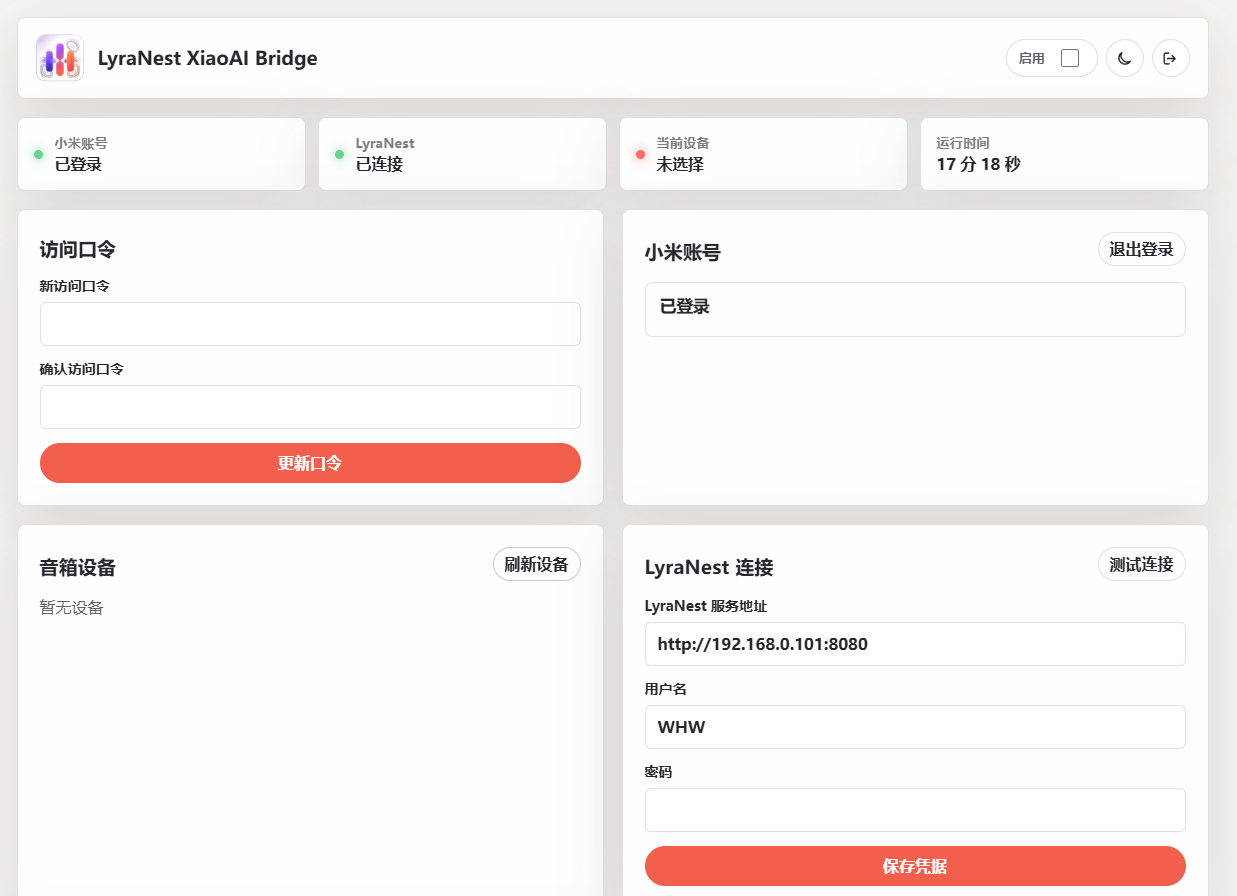
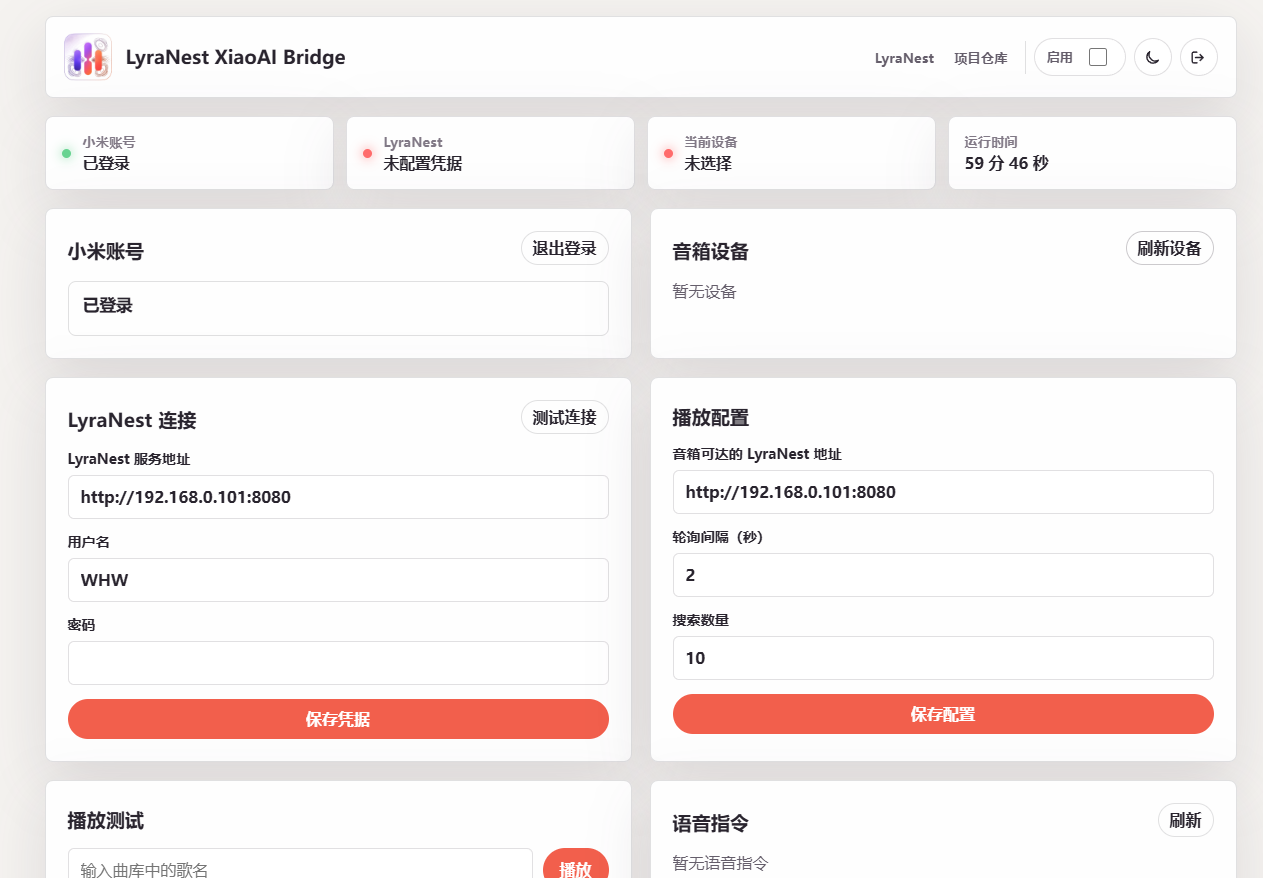
docs: improve release landing page

diff --git a/README.md b/README.md
@@ -1,41 +1,76 @@
 # LyraNest XiaoAI Bridge
 
-LyraNest XiaoAI Bridge 是 [LyraNest](https://lyranest.dpdns.org/) 的独立小爱音箱集成器。它部署在局域网中，将小米小爱音箱连接到 LyraNest 自托管音乐库，让音箱可以依据语音指令搜索并播放自己的曲库。
+<p align="center">
+  <strong>让小爱音箱播放你的 LyraNest 私人音乐库。</strong>
+</p>
 
-> 本仓库仅发布可安装制品、校验文件和使用说明，不包含 Bridge 或 LyraNest 的源代码。
+<p align="center">
+  <a href="https://github.com/WHWgogogo/LyraNest-Xiaomi-Bridge/releases/latest"><img src="https://img.shields.io/github/v/release/WHWgogogo/LyraNest-Xiaomi-Bridge?display_name=tag&label=Release" alt="Latest Release" /></a>
+  <a href="https://github.com/WHWgogogo/LyraNest-Xiaomi-Bridge/releases/latest"><img src="https://img.shields.io/badge/Platform-fnOS%20%7C%20Docker-4f46e5" alt="Platforms" /></a>
+  <a href="https://lyranest.dpdns.org/"><img src="https://img.shields.io/badge/Powered%20by-LyraNest-f95f4d" alt="Powered by LyraNest" /></a>
+</p>
 
-![LyraNest XiaoAI Bridge 管理页](assets/lyranest-xiaoai-bridge-console.png)
+<p align="center">
+  <a href="https://github.com/WHWgogogo/LyraNest-Xiaomi-Bridge/releases/latest">下载最新版</a> ·
+  <a href="https://lyranest.dpdns.org/">LyraNest 官网</a> ·
+  <a href="https://github.com/WHWgogogo/LyraNest">LyraNest 主项目</a> ·
+  <a href="#飞牛-fnos-安装">飞牛安装</a> ·
+  <a href="#docker-离线部署">Docker 部署</a>
+</p>
 
-## 项目与下载
+<p align="center">
+  <img src="assets/lyranest-xiaoai-bridge-console.png" alt="LyraNest XiaoAI Bridge 管理台" width="100%" />
+</p>
 
-| 入口 | 地址 |
-| --- | --- |
-| LyraNest 项目主页 | [lyranest.dpdns.org](https://lyranest.dpdns.org/) |
-| Bridge 发布仓库 | [WHWgogogo/LyraNest-Xiaomi-Bridge](https://github.com/WHWgogogo/LyraNest-Xiaomi-Bridge) |
-| 当前制品目录 | [releases/1.0.1](https://github.com/WHWgogogo/LyraNest-Xiaomi-Bridge/tree/main/releases/1.0.1) |
-| 校验文件 | [SHA256SUMS-1.0.1.txt](https://github.com/WHWgogogo/LyraNest-Xiaomi-Bridge/raw/refs/heads/main/releases/1.0.1/SHA256SUMS-1.0.1.txt) |
+LyraNest（律巢）是一套面向个人 NAS、家庭服务器与局域网音乐库的自托管音乐服务。LyraNest XiaoAI Bridge 是它的音箱扩展：将一台小爱音箱连接到你的 LyraNest 服务后，就可以用语音搜索并播放自己曲库中的音乐。
 
-LyraNest 主项目负责曲库、账号、音乐检索与流媒体服务；Bridge 只负责小米账号授权、音箱发现、语音指令处理和向音箱下发播放控制。音频由音箱直接访问 LyraNest，不经过 Bridge 中转。
+当前稳定版本：`1.0.1`
 
-## 版本 1.0.1
+## 下载最新版
 
-发布于 2026 年 9 月 1 日。
+请前往 [GitHub 最新发行版](https://github.com/WHWgogogo/LyraNest-Xiaomi-Bridge/releases/latest) 下载对应文件。以下链接始终指向当前稳定发行：
 
-| 制品 | 下载 | 用途 |
+| 文件 | 下载 | 适用场景 |
 | --- | --- | --- |
-| 飞牛 FPK | [LyraNest-XiaoAI-Bridge-1.0.1-fnos-native.fpk](https://github.com/WHWgogogo/LyraNest-Xiaomi-Bridge/raw/refs/heads/main/releases/1.0.1/LyraNest-XiaoAI-Bridge-1.0.1-fnos-native.fpk) | 飞牛应用中心原生安装包 |
-| Docker 镜像 | [LyraNest-XiaoAI-Bridge-1.0.1-docker-image-linux-amd64.tar](https://github.com/WHWgogogo/LyraNest-Xiaomi-Bridge/raw/refs/heads/main/releases/1.0.1/LyraNest-XiaoAI-Bridge-1.0.1-docker-image-linux-amd64.tar) | Linux amd64 离线 Docker 镜像 |
-| SHA-256 | [SHA256SUMS-1.0.1.txt](https://github.com/WHWgogogo/LyraNest-Xiaomi-Bridge/raw/refs/heads/main/releases/1.0.1/SHA256SUMS-1.0.1.txt) | FPK 与 Docker 镜像完整性校验 |
+| `LyraNest-XiaoAI-Bridge-1.0.1-fnos-native.fpk` | [下载 FPK](https://github.com/WHWgogogo/LyraNest-Xiaomi-Bridge/releases/latest/download/LyraNest-XiaoAI-Bridge-1.0.1-fnos-native.fpk) | 飞牛 fnOS 原生应用安装包 |
+| `LyraNest-XiaoAI-Bridge-1.0.1-docker-image-linux-amd64.tar` | [下载 Docker 镜像](https://github.com/WHWgogogo/LyraNest-Xiaomi-Bridge/releases/latest/download/LyraNest-XiaoAI-Bridge-1.0.1-docker-image-linux-amd64.tar) | Linux AMD64 / x86_64 离线 Docker 部署 |
+| `SHA256SUMS-1.0.1.txt` | [下载校验文件](https://github.com/WHWgogogo/LyraNest-Xiaomi-Bridge/releases/latest/download/SHA256SUMS-1.0.1.txt) | 校验下载完整性 |
 
-### Docker 离线部署
+## 它能做什么
 
-下载镜像后导入：
+- 登录小米账号并发现局域网中的小爱音箱。
+- 在管理台选择要控制的音箱，完成 LyraNest 服务连接。
+- 将“播放某首歌”“下一首”“暂停”“停止”等语音请求转成曲库操作。
+- 由音箱直接访问 LyraNest 的音乐流，Bridge 不转发音频数据。
+- 提供播放测试、连接状态和最近语音指令记录，方便日常排查。
+
+## 它和 LyraNest 的关系
+
+LyraNest 负责保存音乐、搜索曲库、管理账号并提供播放地址；XiaoAI Bridge 负责把这些能力带给小爱音箱。它是一个独立安装、独立更新的配套应用，不会替代 LyraNest 主服务。
+
+使用前，请先部署可正常访问的 [LyraNest](https://github.com/WHWgogogo/LyraNest)。小爱音箱也必须能通过局域网访问你在 Bridge 中填写的 LyraNest 地址。
+
+## 飞牛 fnOS 安装
+
+飞牛 NAS 用户推荐安装 FPK：
+
+1. 下载 [LyraNest XiaoAI Bridge 1.0.1 FPK](https://github.com/WHWgogogo/LyraNest-Xiaomi-Bridge/releases/latest/download/LyraNest-XiaoAI-Bridge-1.0.1-fnos-native.fpk)。
+2. 在飞牛应用中心选择手动安装，上传 FPK 并完成安装。
+3. 在应用设置中选择未被占用的访问端口，默认是 `18090`。
+4. 从飞牛桌面打开应用，首次进入创建 6 位数字访问口令。
+5. 登录小米账号，选择音箱，填写 LyraNest 服务地址后保存配置。
+
+飞牛桌面入口使用飞牛统一网关；你也可以通过 `http://<飞牛地址>:<端口>` 从局域网访问管理台。
+
+## Docker 离线部署
+
+Docker 镜像适用于 Linux AMD64 / x86_64 设备，与飞牛 FPK 是两种独立的安装方式。下载镜像并导入：
 
 ```bash
 docker load -i LyraNest-XiaoAI-Bridge-1.0.1-docker-image-linux-amd64.tar
 ```
 
-启动独立 Bridge 容器：
+启动 Bridge：
 
 ```bash
 docker run -d --name lyranest-xiaoai-bridge \
@@ -46,26 +81,26 @@ docker run -d --name lyranest-xiaoai-bridge \
   lyranest-xiaoai-bridge:1.0.1
 ```
 
-随后访问 `http://<NAS_IP>:18090`。首次进入创建 6 位数字访问口令，登录小米账号，选择音箱，填写 LyraNest 服务地址并保存即可。
+然后在浏览器打开 `http://<NAS_IP>:18090`，完成首次设置即可。Docker 方式不使用飞牛统一网关。
 
-### 飞牛 FPK 安装
+## 首次配置
 
-1. 在飞牛应用中心选择手动安装，上传 FPK。
-2. 在向导中设置未占用端口，默认是 `18090`。
-3. 从飞牛桌面打开 Bridge，或通过 `http://<NAS_IP>:<端口>` 访问。
-4. 在 Bridge 中完成小米登录、音箱选择和 LyraNest 连接。
+1. 创建管理台的 6 位数字访问口令。
+2. 输入小米账号和密码；小米要求时，再输入短信或邮箱验证码。
+3. 刷新并选择一台小爱音箱。
+4. 填写 Bridge 访问 LyraNest 的服务地址，以及音箱可访问的 LyraNest 地址。
+5. 保存配置并启用 Bridge，随后可用“播放测试”验证全链路。
 
-`1.0.1` 优化了管理台布局，并在公开健康检查中返回当前版本。飞牛会将旧版本识别为可升级包。
+“LyraNest 服务地址”供 Bridge 搜索音乐；“音箱可达的 LyraNest 地址”供音箱直接播放。两者在反向代理、多网卡或跨主机部署时可能不同。
 
-## 使用前提
+## 使用提示
 
-- 已部署可访问的 LyraNest 服务。
-- 小爱音箱与 LyraNest 服务地址在同一可达局域网中。
-- 一个可登录小米账号的单账号、单音箱使用场景。
+- 当前支持单账号、单音箱，适合家庭和个人局域网使用。
+- 小爱相关连接基于非官方兼容能力；小米账号风控、验证要求或服务调整可能需要重新登录。
+- 配置和已加密的小米登录会话保存在数据目录；请不要删除 Docker 数据卷或飞牛应用数据。
+- 管理台口令仅适合可信局域网。请勿将端口直接暴露到互联网；远程使用时建议通过防火墙或带认证的反向代理保护。
 
-Bridge 支持小米账号密码登录，并在小米要求时接收短信或邮箱验证码。它提供设备发现、固定语音指令、曲库搜索、播放测试和访问口令管理。
-
-## 校验
+## 校验下载
 
 Linux、macOS：
 
@@ -80,11 +115,10 @@ Get-FileHash .\LyraNest-XiaoAI-Bridge-1.0.1-fnos-native.fpk -Algorithm SHA256
 Get-FileHash .\LyraNest-XiaoAI-Bridge-1.0.1-docker-image-linux-amd64.tar -Algorithm SHA256
 ```
 
-## 说明
+## 相关链接
 
-- Docker 与 FPK 是两种独立分发方式。Docker 不使用飞牛统一网关；FPK 会集成飞牛桌面入口。
-- Bridge 保存配置和加密的小米会话，但不会在日志中记录明文口令或会话票据。
-- 小米相关接口属于非官方兼容实现，可能会随小米服务变化而调整。
-- 6 位数字口令适合可信局域网。共享网络建议用防火墙或带认证的反向代理限制访问。
+- [LyraNest 官网](https://lyranest.dpdns.org/)
+- [LyraNest 主项目](https://github.com/WHWgogogo/LyraNest)
+- [LyraNest XiaoAI Bridge 最新下载](https://github.com/WHWgogogo/LyraNest-Xiaomi-Bridge/releases/latest)
 
-项目主页与产品信息请访问 [LyraNest](https://lyranest.dpdns.org/)。本仓库的最新下载始终位于 [releases](https://github.com/WHWgogogo/LyraNest-Xiaomi-Bridge/tree/main/releases)。
+> 本仓库提供 LyraNest XiaoAI Bridge 的正式安装包、校验文件和使用说明，不包含完整源代码。
